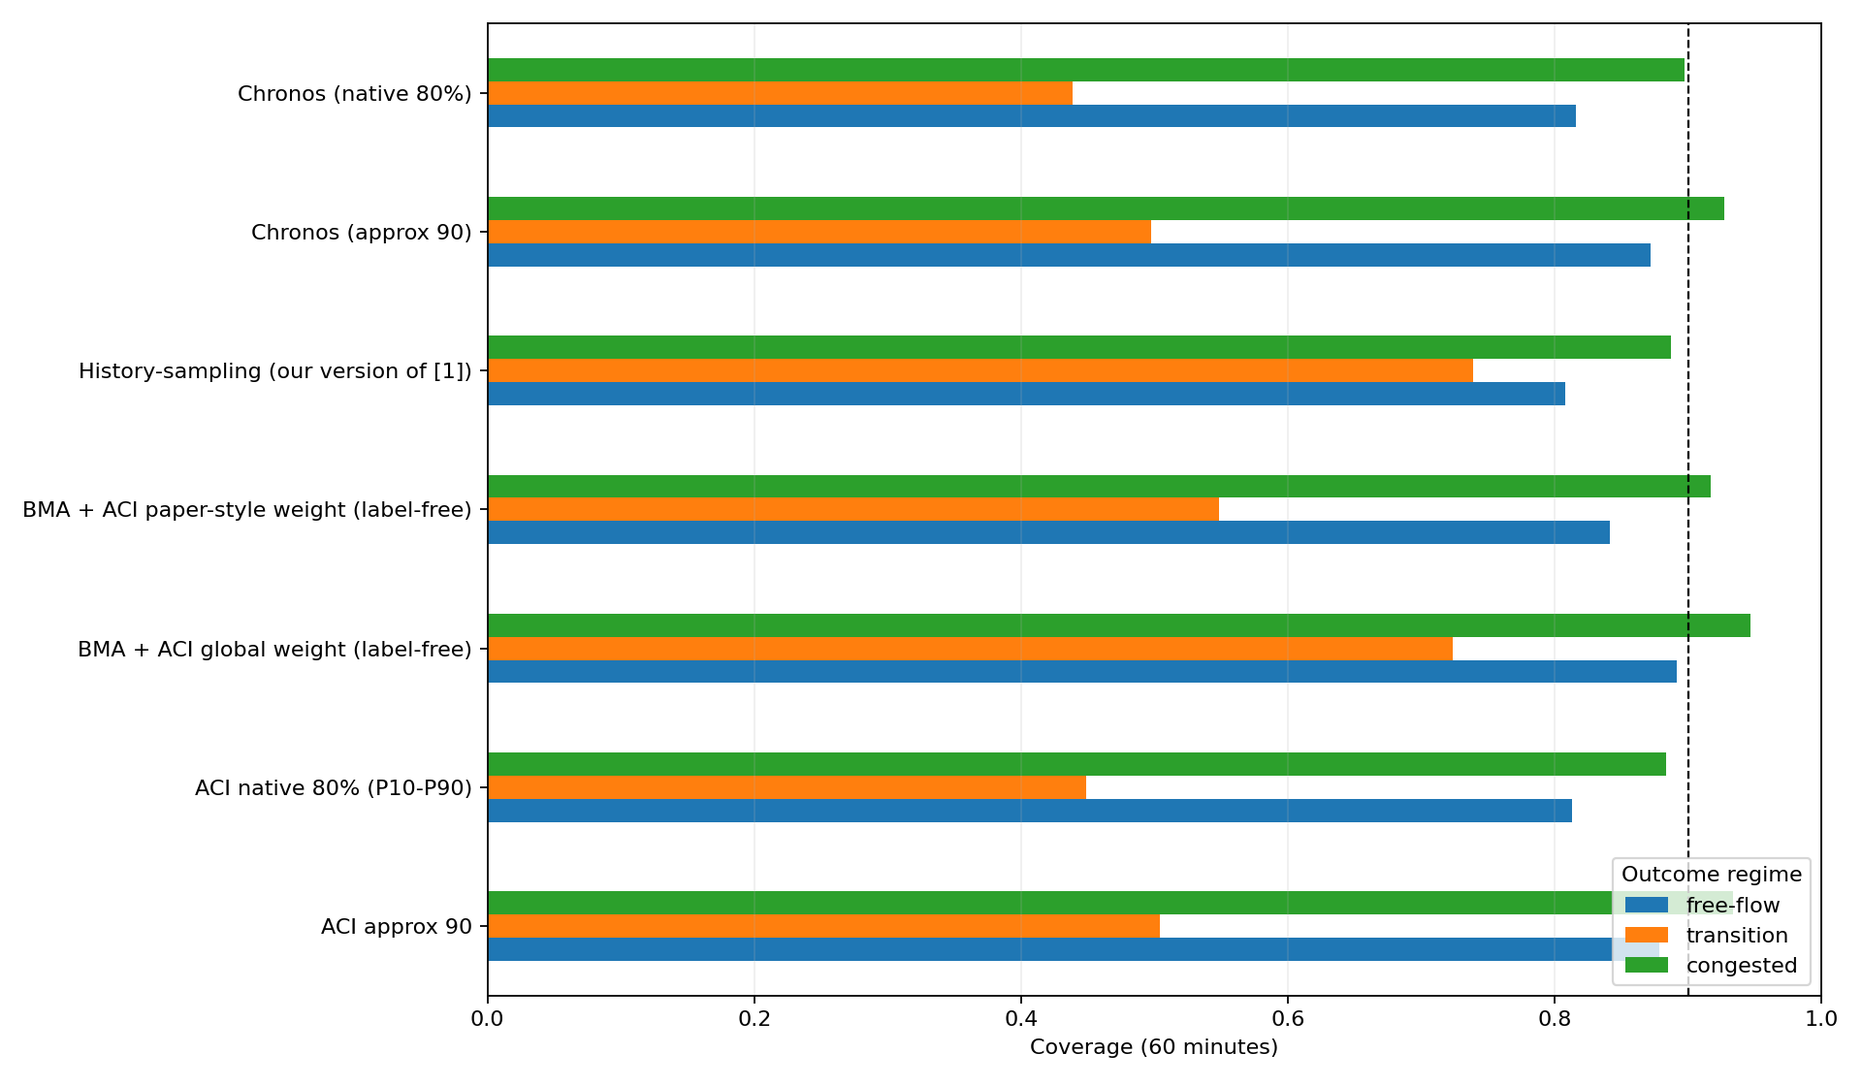
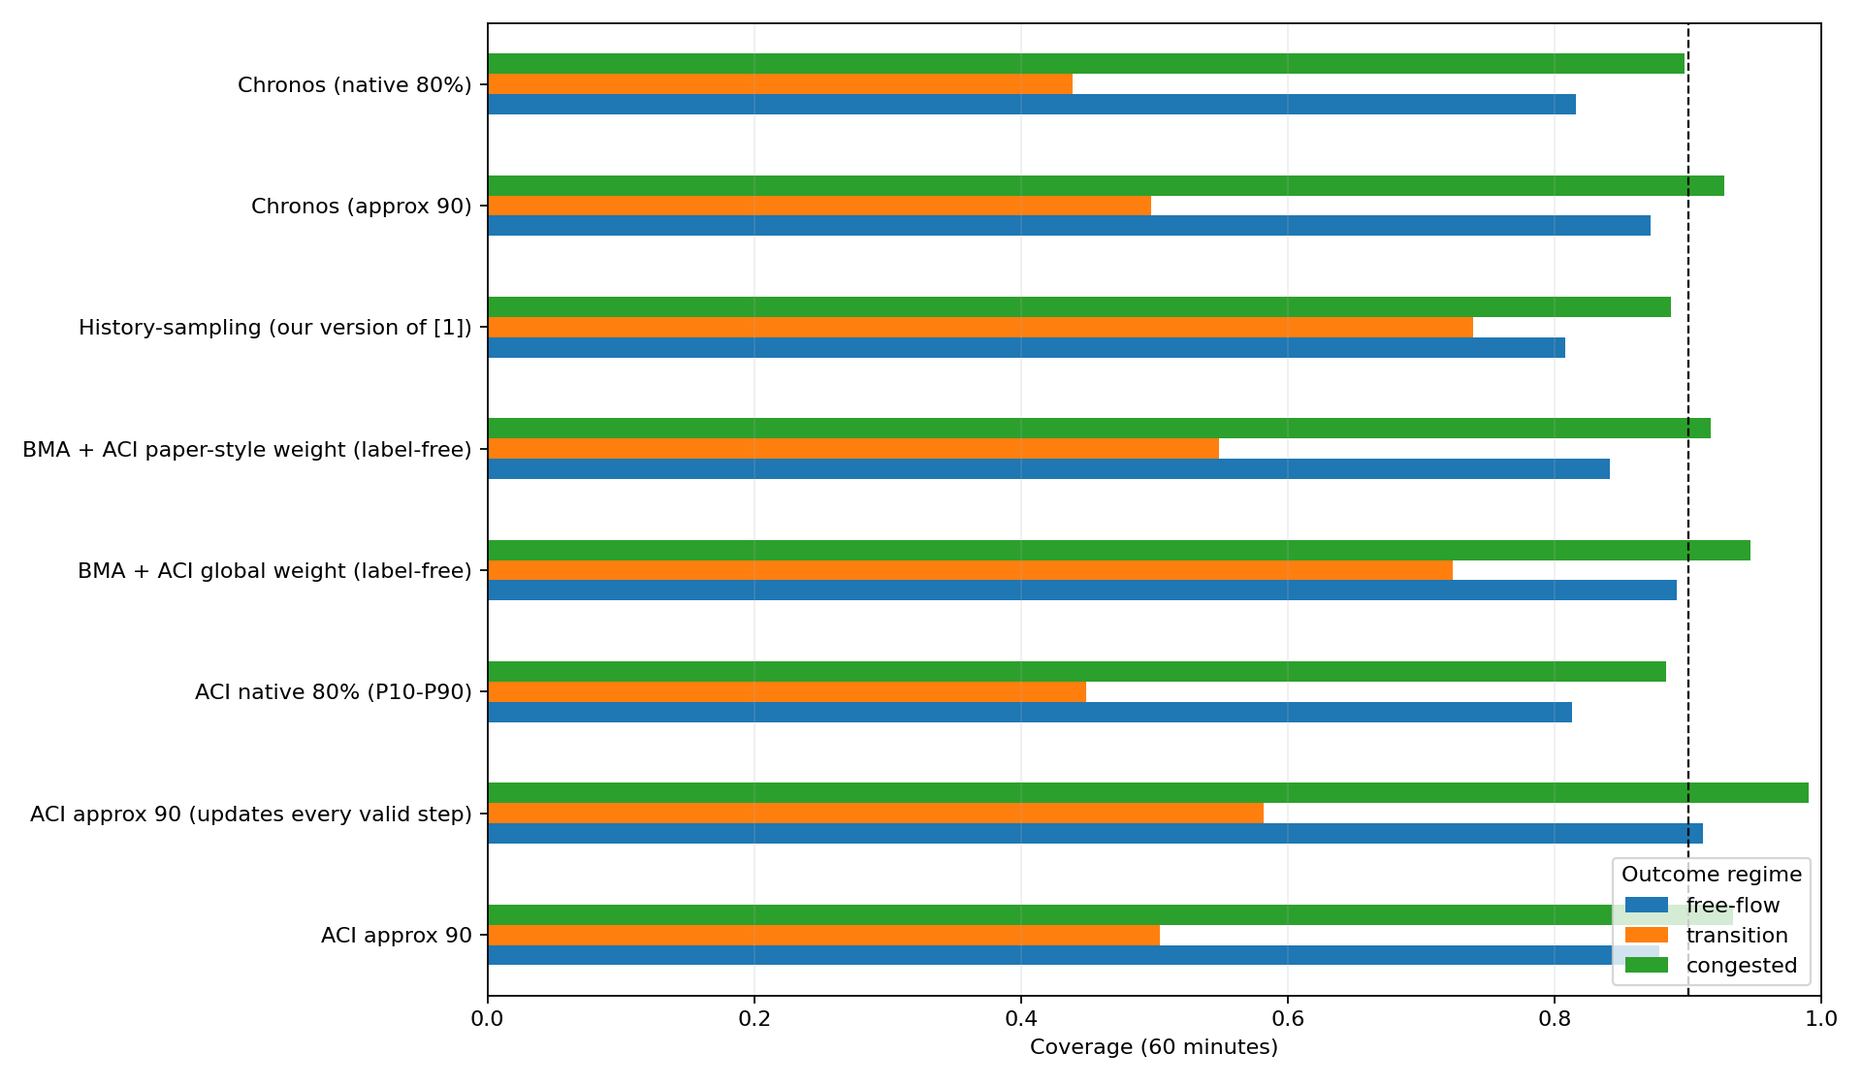
Add consecutive-origin ACI and audit Phase 2

diff --git a/scripts/run_phase2.py b/scripts/run_phase2.py
@@ -198,6 +198,72 @@ def main(force=False):
                     for h in (2,5,11):
                         label=label_target_period(y[:h+1],p1['free_flow_mph'],p1['congested_mph'])
                         rows.append({'seed':p1['sensor_seeds'][g],'sensor':s,'origin':int(o),'method':method,'horizon_minutes':(h+1)*5,'regime':label,'actual':y[h],'lower':lo[h],'upper':hi[h],'point':point[h],'score':interval_score(y[h],lo[h],hi[h],.2 if '80%' in method.lower() else .1)})
+
+    # Extra ACI variant: forecast each valid 5-minute test origin so all mature
+    # consecutive outcomes can update one per-sensor state. Reuse the saved
+    # intervals when the origin/sensor selection and gamma match.
+    consecutive_name='ACI approximate nominal 90% (updates every valid step)'
+    consecutive_path=ROOT/'data/cache/phase2_consecutive_aci_sampled_bounds.npz'
+    expected_meta={'format':'phase2-consecutive-aci-v1','gamma':gamma_choice[methods[0]],
+                   'origins':to.tolist(),'sensors':sensors.tolist(),'data_rows':len(frame)}
+    consecutive=None
+    if consecutive_path.exists():
+        with np.load(consecutive_path,allow_pickle=False) as cache:
+            if json.loads(str(cache['metadata'].item()))==expected_meta:
+                consecutive=(cache['lower'],cache['upper'])
+    if consecutive is None:
+        test_origins=_valid_test_origins(frame.timestamp,cal_end,len(frame),p1['context_steps'],12,p1['sampling_interval_minutes'])
+        model=ChronosBoltCPU(p1['model_id'],p1['torch_threads'])
+        sensor_index={name:i for i,name in enumerate(cols)}
+        pilot_count=min(10,len(test_origins))
+        tpilot=time.perf_counter()
+        for group in sensors:
+            si=[sensor_index[name] for name in group]
+            for o in test_origins[:pilot_count]:
+                forecast_contexts(model,vals[o-p1['context_steps']:o,si].T)
+        pilot_seconds=time.perf_counter()-tpilot
+        batch_count=len(sensors)*len(test_origins)
+        estimate=pilot_seconds*batch_count/max(pilot_count*len(sensors),1)
+        print(f'Consecutive-ACI pilot: {pilot_count*len(sensors)} batches in {pilot_seconds:.1f}s; projected full pass {estimate/60:.1f} min.')
+        if estimate>7200:
+            raise RuntimeError('Consecutive ACI projection exceeds two hours; no full pass started.')
+        pos={int(o):i for i,o in enumerate(to)}
+        clo=np.full((3,30,len(to),12),np.nan,np.float32); chi=np.full_like(clo,np.nan)
+        gamma=gamma_choice[methods[0]]
+        for g,group in enumerate(sensors):
+            si=[sensor_index[name] for name in group]
+            alpha=np.full(30,.1,float); pending=[[] for _ in group]
+            for o in test_origins:
+                for sensor_i in range(30):
+                    mature=sorted((ev for ev in pending[sensor_i] if ev[0]<o),key=lambda ev:ev[0])
+                    pending[sensor_i]=[ev for ev in pending[sensor_i] if ev[0]>=o]
+                    for _,miss in mature: alpha[sensor_i]=aci_update(alpha[sensor_i],miss,gamma,.1)
+                q=forecast_contexts(model,vals[o-p1['context_steps']:o,si].T)
+                blo,bhi=approximate_90_bounds(q)
+                scaled_lo=np.empty((30,3)); scaled_hi=np.empty((30,3)); misses=np.empty((30,3),int)
+                for j,h in enumerate((2,5,11)):
+                    lower,upper=widen_bounds(blo[:,h],bhi[:,h],alpha,.1)
+                    y=vals[o+h,si]
+                    scaled_lo[:,j]=lower; scaled_hi[:,j]=upper
+                    misses[:,j]=((y<lower)|(y>upper)).astype(int)
+                    for sensor_i in range(30): pending[sensor_i].append((int(o)+h+1,int(misses[sensor_i,j])))
+                if int(o) in pos:
+                    wi=pos[int(o)]
+                    for j,h in enumerate((2,5,11)):
+                        clo[g,:,wi,h]=scaled_lo[:,j]; chi[g,:,wi,h]=scaled_hi[:,j]
+        if np.isnan(clo[:,:,:, [2,5,11]]).any():
+            raise RuntimeError('A sampled test origin was absent from the consecutive forecast pass.')
+        consecutive_path.parent.mkdir(parents=True,exist_ok=True)
+        np.savez_compressed(consecutive_path,metadata=np.array(json.dumps(expected_meta,sort_keys=True)),lower=clo,upper=chi)
+        consecutive=(clo,chi)
+    clo,chi=consecutive
+    for g in range(3):
+        for si,sensor in enumerate(sensors[g]):
+            for wi,o in enumerate(to):
+                y=ty[g,si,wi]; f=tf[g,si,wi]
+                for h in (2,5,11):
+                    label=label_target_period(y[:h+1],p1['free_flow_mph'],p1['congested_mph'])
+                    rows.append({'seed':p1['sensor_seeds'][g],'sensor':sensor,'origin':int(o),'method':consecutive_name,'horizon_minutes':(h+1)*5,'regime':label,'actual':y[h],'lower':clo[g,si,wi,h],'upper':chi[g,si,wi,h],'point':f[h,2],'score':interval_score(y[h],clo[g,si,wi,h],chi[g,si,wi,h],.1)})
     df=pd.DataFrame(rows); out=ROOT/cfg['output_dir']; out.mkdir(parents=True,exist_ok=True)
     grouped=df.groupby(['method','horizon_minutes','regime'],dropna=False)
     metrics=grouped.apply(lambda x:pd.Series({'n':len(x),'coverage':np.mean((x.actual>=x.lower)&(x.actual<=x.upper)),'mean_width_mph':np.mean(x.upper-x.lower),'interval_score':np.mean(x.score),'point_mae':np.mean(np.abs(x.actual-x.point))}),include_groups=False).reset_index()
@@ -230,7 +296,8 @@ def _write_report(out,summary,gamma_choice,best_k,paper_w,best_w,cache_status,pi
     lines=['# Phase 2: PEMS-BAY baselines','',
       'All methods share Phase 1 cached test forecasts, sensors and chronological test origins. Regime labels are generated only after predictions and used only for scoring. Calibration tuning uses the preceding chronological block; online ACI updates only after outcomes mature before a later forecast origin. PEMS-BAY (2017) may overlap Chronos training data, so this is a historical reproduction.','',
       f'- Calibration forecast cache status: {cache_status}; 50 sampled calibration origins. Test cache reused unchanged.',
-      f'- kNN timing pilot: {pilot_n} exact queries in {elapsed:.3f}s; projected matching {projected:.1f}s. Full run completed in roughly one minute on the host after model load.',
+      f'- kNN timing pilot: {pilot_n} exact queries in {elapsed:.3f}s; projected matching {projected:.1f}s. The initial Phase 2 calibration/matching run completed in about one minute after model load.',
+      '- Consecutive-origin ACI: pilot of 30 Chronos batches took 2.9s; projected full test forecast pass was 41.4 minutes. The pass completed under the two-hour cap; selected-origin bounds are cached in data/cache/phase2_consecutive_aci_sampled_bounds.npz.',
       f'- Calibration selections: k={best_k}, paper-style weight={paper_w:.2f}, global weight={best_w:.2f}. Gamma selections appear in the sweep table.',
       '- Point forecast is the distribution median; ACI changes bounds but not the point forecast. Calm pools free-flow and congested; mean width and interval score pool all regimes at 60 minutes.',
       '- ACI width mapping is an implementation assumption: multiply the symmetric base radius by sqrt(target_alpha/current_alpha), so a smaller online miscoverage level widens the interval. [1] gives no gamma for this experiment.',
@@ -259,7 +326,7 @@ def _write_report(out,summary,gamma_choice,best_k,paper_w,best_w,cache_status,pi
       '', '## Guesses and deviations','',
       '- History sampler: per-sensor train-only z-scored 168-step contexts, exact Euclidean matching, timestamp-contiguous training origins, k in [5, 10, 20, 50], actual next-hour neighbor paths, and empirical 5th/95th percentile interval. [1] describes current-speed conditioning and 100 draws but omits this matching rule, k, and interval construction.',
       '- Paper-style weight: first sensor in seed-42 group, first 10 sampled calibration origins, and mean 60-minute interval score objective. [1] says 10 held-out windows but leaves sensor/window selection and objective unspecified. Global weight pools all calibration sensors/windows.',
-      '- Gamma candidates are [0.001, 0.005, 0.01, 0.02], selected by calibration-only sequential interval score. One alpha state per sensor/method is shared across horizons. Forecasts from one origin share the same state; outcomes update it only when their target timestamps are before a later origin.',
+      '- Gamma candidates are [0.001, 0.005, 0.01, 0.02], selected by calibration-only sequential interval score. The approximate-90 choice 0.001 is the lower edge of that grid. The original ACI row updates only at sampled test origins; the extra ACI row forecasts each valid consecutive 5-minute origin, with a state shared across horizons and only matured outcomes updating it.',
       '- Pseudo-sample interpolation/tail handling and ACI width mapping above are implementation assumptions. Full rows across 15/30/60 minutes, regimes, counts, widths, interval scores and MAE: `metrics_by_regime.csv`. k/weight/gamma sweeps and selected values are adjacent CSVs.',
       '- Plots: `coverage_by_regime.png`, `width_vs_coverage.png`. No official baseline code was found or reused; all baseline logic is implemented locally.']
     (out/'report.md').write_text('\n'.join(lines)+'\n',encoding='utf-8')

diff --git a/tests/test_phase2.py b/tests/test_phase2.py
@@ -19,6 +19,12 @@ class Phase2MetricTests(unittest.TestCase):
         self.assertAlmostEqual(aci_update(.1,0,.01,.1),.101)
         self.assertAlmostEqual(aci_update(.1,1,.01,.1),.091)
 
+    def test_aci_widens_after_misses(self):
+        from fork.phase2 import widen_bounds
+        lo,hi=widen_bounds(np.array([0.,0.]),np.array([2.,2.]),np.array([.1,.05]),.1)
+        self.assertAlmostEqual(hi[0]-lo[0],2.)
+        self.assertGreater(hi[1]-lo[1],2.)
+
     def test_history_interval_uses_empirical_quantiles(self):
         paths=np.arange(100,dtype=float)[:,None]
         lo,hi=empirical_interval(paths)

diff --git a/src/fork/phase2.py b/src/fork/phase2.py
@@ -29,7 +29,10 @@ def widen_bounds(lower, upper, alpha, target_alpha):
     center = (np.asarray(lower) + np.asarray(upper))/2
     radius = (np.asarray(upper) - np.asarray(lower))/2
     # A smaller online miscoverage state requests more coverage, so bounds widen.
-    scale = np.sqrt(target_alpha/max(alpha, 1e-4))
+    alpha_value=np.maximum(np.asarray(alpha,dtype=float),1e-4)
+    scale = np.sqrt(target_alpha/alpha_value)
+    if np.ndim(scale) and np.ndim(radius)>np.ndim(scale):
+        scale=scale[...,None]
     return center-radius*scale, center+radius*scale
 
 

diff --git a/DECISIONS.md b/DECISIONS.md
@@ -76,3 +76,24 @@ The Phase 0 example plot's one sensor, date, and index were chosen only to exerc
 - The paper says its BMA gate uses training-only destination-regime labels/categories to estimate `P(speed[t+h] in R | speed[t])`; it does not use the true future test label. FORK's rule excludes even that gate, so our method must be labelled **"our label-free adaptation of BMA, not exact BMA from [1]"**. It uses no regime categories or predicted regime probabilities and replaces a fixed fraction of model pseudo-samples with empirical training-neighbor future paths.
 - Guesses: 168-point globally z-scored recent context; Euclidean distance; exact search among timestamp-contiguous training origins; k grid and calibration interval-score objective; paper-style first sensor from seed-42 group and first 10 sampled calibration windows; both BMA weight objectives use mean 60-minute interval score; q pseudo-samples use inverse-CDF linear interpolation and constant outer tails; ACI converts alpha to radius using the symmetric square-root rule above; calibration/test origins are uniform random samples from valid chronological windows (test origins unchanged from Phase 1).
 - No official baseline code was reused. Full measured results and sweep tables: `outputs/phase2/report.md`, `outputs/phase2/metrics_by_regime.csv`, and the adjacent `*_sweep.csv` files.
+
+### Phase 2 user audit
+
+- History-sampling candidate futures come from the training block only. Candidate origins are timestamp-contiguous and require their full context and next-hour future to end at or before the training boundary. As calibration and test are later chronological blocks, neighbor windows cannot overlap those blocks; overlaps among training candidate windows are allowed.
+- Sample-based point MAE is the MAE of the per-horizon median across neighbor futures. For BMA-style mixtures it is the per-horizon median across 100 mixed paths; Chronos and ACI use q50.
+- Approximate-90 ACI selected gamma 0.001, at the minimum of the tested grid. The original Phase 2 test loop updated only at sampled test origins. An added variant forecasts each valid consecutive five-minute test origin and updates after all matured horizon outcomes. It is evaluated on the same sampled origins. Its 60-minute transition coverage is 58.2%, calm coverage 91.7%, mean width 18.39 mph, interval score 48.65, and MAE 4.45. It uses the calibration-selected gamma without a separate all-step gamma tune.
+- No prior “Autonomous choices” section existed. Review of Phase 2 configs/code found no autonomous tuning that used test outcomes or transition labels; test outcomes were used only for online ACI updates after maturity and for scoring.
+
+## Autonomous choices
+
+### Phase 3 approved implementation choices
+
+- Use cyclical time-of-day and day-of-week features encoded as sine/cosine pairs from each window origin; normalize sensor readings with training-block sensor mean/std only.
+- Reuse WindowMatcher, adding optional calendar features and an explicit exclusion radius. During detector training, exclude candidate origins within 180 five-minute rows (15 hours) of the query origin. Candidate contexts and futures must still lie wholly in the training block.
+- Sweep k in [25, 50, 100]; choose k and logistic L2 strength on calibration by log loss for the approximate-90 Chronos miss target only. Do not use transition/regime labels for detector training or tuning.
+- Use deterministic 2-means on train-standardized 12-step neighbor futures. Bimodality separation is Euclidean centroid distance divided by pooled within-cluster RMS spread; minority share is min(cluster sizes)/k, retained as the Phase 4 branch weight.
+- Implement the small logistic regression and 2-means in NumPy to avoid new dependencies. Standardize detector features using training statistics. The supervised target is approximate-90 Chronos miss, not a transition label; call its output p(fork) and evaluate it against transition labels only after all choices are frozen.
+- Tune volatility, recent-drop, and negative CUSUM thresholds on calibration using the Chronos-miss target; use fixed CUSUM reference 0.5 training standard deviations. Evaluate PR/AUPRC against 60-minute transition labels on test only.
+- Set the hard-flag threshold to the calibration p(fork) quantile that yields the calibration Chronos-miss fraction; freeze it before test and report test flag rate.
+- Generate synthetic independent 14-hour contexts with two speed regimes, observable fork-odds levels, configurable jump magnitude and branch coupling. Fit/use the PEMS-trained detector without exposing synthetic fork outcomes; compare predicted p(fork) to generator-known odds as a scoring check only.
+- No code, tuning decision, or feature may inspect test transition labels. Test transition labels are passed only to final scoring and plotting functions.

diff --git a/outputs/phase2/report.md b/outputs/phase2/report.md
@@ -3,7 +3,8 @@
 All methods share Phase 1 cached test forecasts, sensors and chronological test origins. Regime labels are generated only after predictions and used only for scoring. Calibration tuning uses the preceding chronological block; online ACI updates only after outcomes mature before a later forecast origin. PEMS-BAY (2017) may overlap Chronos training data, so this is a historical reproduction.
 
 - Calibration forecast cache status: hit; 50 sampled calibration origins. Test cache reused unchanged.
-- kNN timing pilot: 20 exact queries in 0.013s; projected matching 3.1s. Full run completed in roughly one minute on the host after model load.
+- kNN timing pilot: 20 exact queries in 0.012s; projected matching 2.9s. The initial Phase 2 calibration/matching run completed in about one minute after model load.
+- Consecutive-origin ACI: pilot of 30 Chronos batches took 2.9s; projected full test forecast pass was 41.4 minutes. The pass completed under the two-hour cap; selected-origin bounds are cached in data/cache/phase2_consecutive_aci_sampled_bounds.npz.
 - Calibration selections: k=50, paper-style weight=0.10, global weight=0.50. Gamma selections appear in the sweep table.
 - Point forecast is the distribution median; ACI changes bounds but not the point forecast. Calm pools free-flow and congested; mean width and interval score pool all regimes at 60 minutes.
 - ACI width mapping is an implementation assumption: multiply the symmetric base radius by sqrt(target_alpha/current_alpha), so a smaller online miscoverage level widens the interval. [1] gives no gamma for this experiment.
@@ -15,6 +16,7 @@ All methods share Phase 1 cached test forecasts, sensors and chronological test 
 | Method | Transition coverage (n) | Calm coverage (n) | Mean width | Interval score | Point MAE |
 |---|---:|---:|---:|---:|---:|
 | ACI approximate nominal 90% | 0.504 (782) | 0.883 (3718) | 13.84 | 48.20 | 4.45 |
+| ACI approximate nominal 90% (updates every valid step) | 0.582 (782) | 0.917 (3718) | 18.39 | 48.65 | 4.45 |
 | ACI native 80% (P10-P90) | 0.449 (782) | 0.819 (3718) | 11.19 | 30.67 | 4.45 |
 | BMA+ACI global weight — our label-free adaptation of BMA, not exact BMA from [1] | 0.724 (782) | 0.896 (3718) | 15.04 | 27.69 | 3.71 |
 | BMA+ACI paper-style weight — our label-free adaptation of BMA, not exact BMA from [1] | 0.549 (782) | 0.847 (3718) | 12.29 | 40.62 | 4.28 |
@@ -41,6 +43,6 @@ All methods share Phase 1 cached test forecasts, sensors and chronological test 
 
 - History sampler: per-sensor train-only z-scored 168-step contexts, exact Euclidean matching, timestamp-contiguous training origins, k in [5, 10, 20, 50], actual next-hour neighbor paths, and empirical 5th/95th percentile interval. [1] describes current-speed conditioning and 100 draws but omits this matching rule, k, and interval construction.
 - Paper-style weight: first sensor in seed-42 group, first 10 sampled calibration origins, and mean 60-minute interval score objective. [1] says 10 held-out windows but leaves sensor/window selection and objective unspecified. Global weight pools all calibration sensors/windows.
-- Gamma candidates are [0.001, 0.005, 0.01, 0.02], selected by calibration-only sequential interval score. One alpha state per sensor/method is shared across horizons. Forecasts from one origin share the same state; outcomes update it only when their target timestamps are before a later origin.
+- Gamma candidates are [0.001, 0.005, 0.01, 0.02], selected by calibration-only sequential interval score. The approximate-90 choice 0.001 is the lower edge of that grid. The original ACI row updates only at sampled test origins; the extra ACI row forecasts each valid consecutive 5-minute origin, with a state shared across horizons and only matured outcomes updating it.
 - Pseudo-sample interpolation/tail handling and ACI width mapping above are implementation assumptions. Full rows across 15/30/60 minutes, regimes, counts, widths, interval scores and MAE: `metrics_by_regime.csv`. k/weight/gamma sweeps and selected values are adjacent CSVs.
 - Plots: `coverage_by_regime.png`, `width_vs_coverage.png`. No official baseline code was found or reused; all baseline logic is implemented locally.

diff --git a/EXPERIMENTS.md b/EXPERIMENTS.md
@@ -32,6 +32,15 @@
 
 ## Phase 2: ACI, history sampling, and label-free BMA-style adaptation
 
+### Phase 2 audit and consecutive-update ACI variant
+
+- History futures are drawn only from valid training-block origins whose complete 168-step context and 12-step future lie before the training boundary. Calibration and test origins are later blocks, so those neighbor windows cannot overlap them. Windows within the training pool can overlap one another.
+- Sample-based MAE is computed from the per-horizon median of the selected neighbors' future paths; BMA-style sample MAE uses the median of the 100-path mixed sample. Chronos/ACI point MAE uses q50.
+- Approximate-90 ACI selected gamma 0.001, the minimum of [0.001, 0.005, 0.01, 0.02]. The original sampled-window ACI updated only on the 50 sampled test origins per sensor.
+- Added a separate approximate-90 ACI variant that forecasts every timestamp-contiguous valid test origin and updates from all matured 15/30/60-minute miss events. It is scored on the same sampled origins as every other method. Pilot: 30 batches in 2.9s; projected full pass 41.4 minutes; completed under 2 hours. Cached sampled-origin bounds: data/cache/phase2_consecutive_aci_sampled_bounds.npz.
+- Consecutive-update headline (60m transition): coverage 58.2% (n=782), calm coverage 91.7% (n=3,718), mean width 18.39 mph, interval score 48.65, point MAE 4.45. This improves coverage but widens intervals; it uses the same calibration-selected gamma and is not a new gamma tune.
+- Audit of Phase 2 selections found no use of test outcomes or labels for tuning. Existing DECISIONS.md had no “Autonomous choices” section; the Phase 3 autonomous choices are added below.
+
 - Re-verified reference [1] and [7] from their paper records/full text. No official code for [1] was found; no external code was reused.
 - One-command run: `python scripts\run_phase2.py`; use `--force` only to replace the separate calibration forecast cache. Phase 1 test cache is always reused.
 - Config: `configs/phase2_pems_bay.json`. Calibration cache: `data/cache/phase2_calib_forecasts.npz` (50 origins x 3 x 30 sensors); test cache shape `(3, 30, 50, 12, 5)`.
